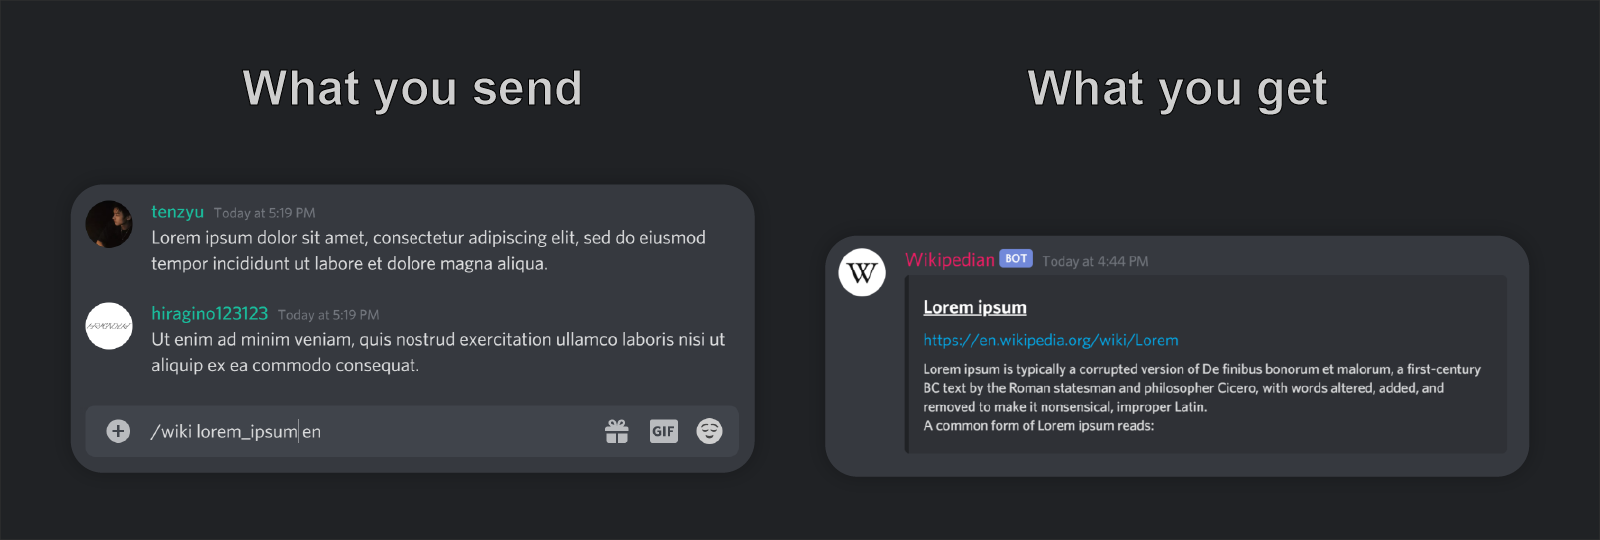
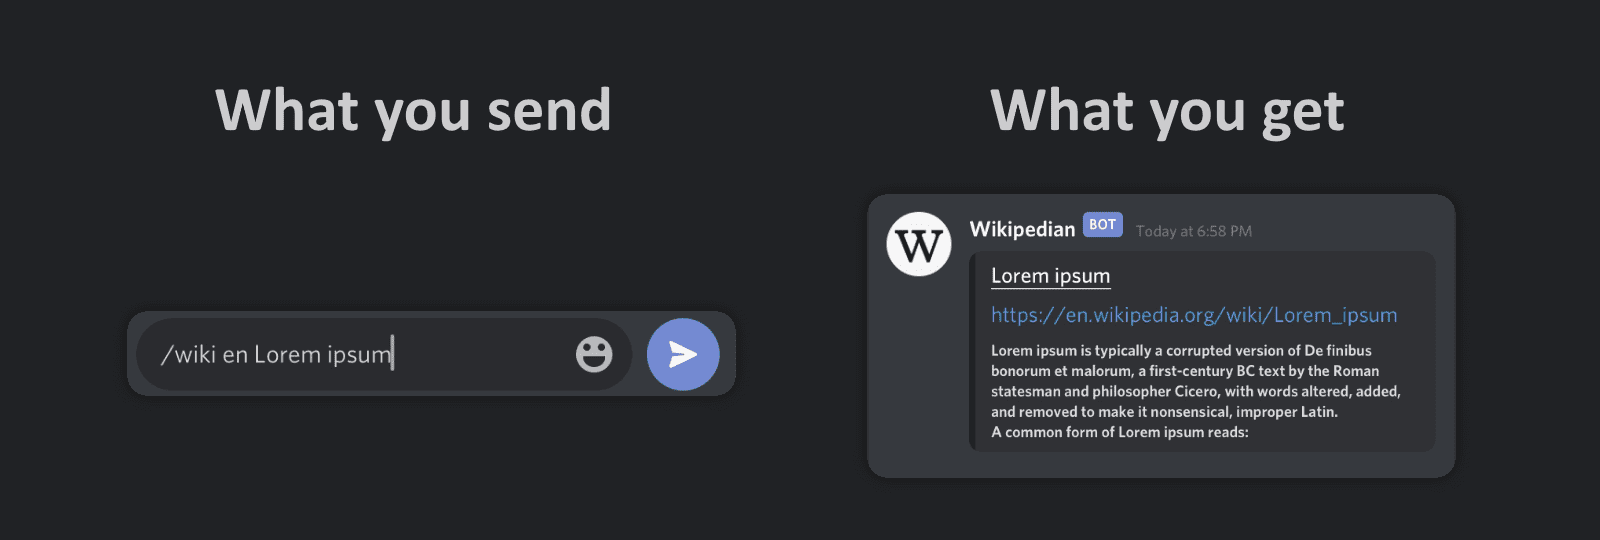
Updated to the latest usage.

diff --git a/README.md b/README.md
@@ -6,17 +6,19 @@
 
 ## [✉ Invite to your server](https://discord.com/api/oauth2/authorize?client_id=751430120962785360&permissions=84992&scope=bot)
 
-### Usage
+## Usage
 
-`/wiki <keyword>`
+### `/wiki <location> <keyword>`
 
 Search a article that contains ` keyword ` from Wikipedia and send message with an embed.
 
-`/search <keyword>`
+For example: `/wiki ja イデア論`, `/wiki en lorem ipsum`
+
+### `/search <keyword>`
 
 Search for articles on Wikipedia by ` keyword ` and send them as a list with an embed.
 
-### Required Permissions
+## Required Permissions
 
 - Read Messages
 - Send Messages
